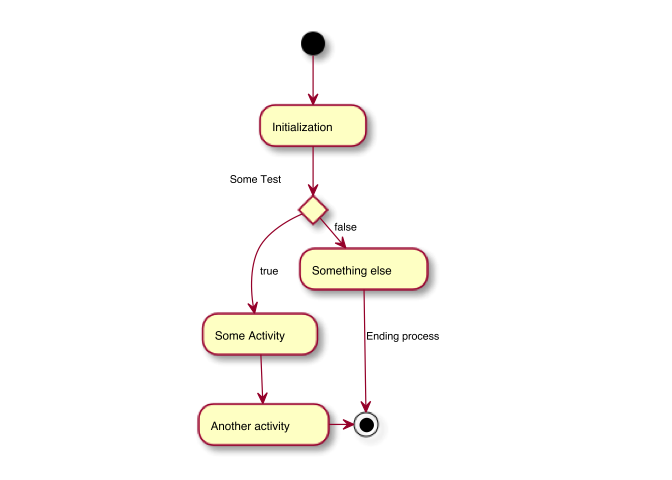
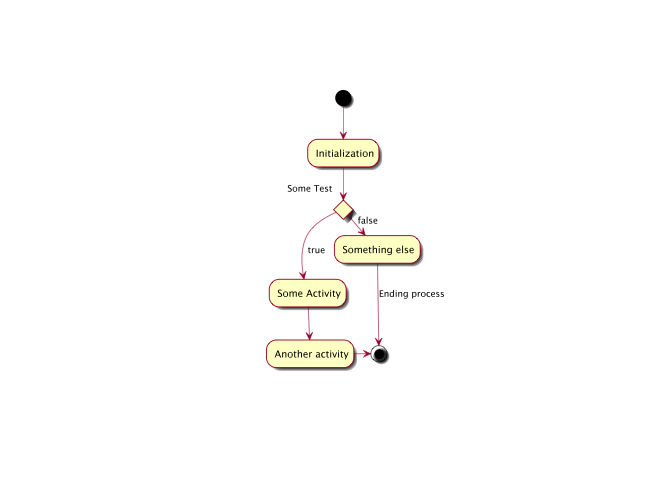
Version 0.2.1
* Revert back to using `.eps` as intermediate format
* Add `asp = 1` to plot function
* Additions to README.Rmd

Changed region(s): [[0.2812, 0.1875, 0.6562, 0.7812], [0.2812, 0.8125, 0.5625, 0.9688], [0.4375, 0.0625, 0.5, 0.1562]]

diff --git a/README.md b/README.md
@@ -8,14 +8,45 @@ This package provides the functionality to create UML graphs using the
 
 # Installation
 
-The package is not on CRAN, so you have to install it from github:
+## **<span style="color:red">ATTENTION</span>**
+
+This packege `plantuml` uses the package `grImport` for plotting to a
+graphics device. In the CRAN version (`0.9-0`)the function
+`PostScriptTrace()` does not clean up a temporary file which iscreated
+in theworking directory. This ahs been fixed in R-Forge. I recommend to
+install the package from the github mirror from R-Forge by using
 
 ``` r
-# From github
-# install.packages("devtools")
+devtools::install_github("rforge/grimport/pkg/grImport")
+```
+
+## Prerequisites
+
+The actual work is done by the program [plantuml](http://plantuml.com/).
+Please see [the plantuml installation
+page](http://plantuml.com/faq-install) for prerequisites of running
+plantuml. You don’t have tio install the plantuml.jar file, as the
+packagae maintains it’s own version (see below).
+
+As the package is only on github, you need `devtools` to install it
+easily as a prerequisite
+
+``` r
+install.packages("devtools")
+```
+
+## Installation of plantuml
+
+The package is not on CRAN, so you have to install it from github. Also,
+it doez not come with the plantuml binary, which needs to be installed
+as well:
+
+``` r
+# Install plantuml from github
 devtools::install_github("rkrug/plantuml")
 
 # download and install the PlantUML jar file from \link{http://plantuml.com/download}
+# whenever you call this command again, the plantuml binary will be updated to the newest version
 library(plantuml)
 updatePlantumlJar()
 ```
@@ -74,7 +105,9 @@ plot(
 
 ![](README_files/figure-gfm/exampleDeviceRaster-1.png)<!-- -->
 
-To safe the graph in a file, we simply specify the `file` argument in
+## Plotting to a file
+
+To save the graph in a file, we simply specify the `file` argument in
 the plot command:
 
 ``` r
@@ -83,8 +116,6 @@ plot(
   file = "./README_files/test.svg" 
 )
 ```
-
-## plotting to a file
 
 And here is the file
 
@@ -127,13 +158,12 @@ plot(
 )
 ```
 
-![](README_files/figure-gfm/exampleObject-1.png)<!-- --> \# Additional
-info
+![](README_files/figure-gfm/exampleObject-1.png)<!-- -->
 
-# \* **<span style="color:red">TODO</span>**
+This is work in progress and the layoput is likely to change.
 
-  - **<span style="color:red">TODO</span>** make selection dependant on
-    installed packages, as `vector = TRUE` requires postscript to be
-    installed\!
-  - **<span style="color:red">TODO</span>** update documentation and add
-    tests
+# **<span style="color:red">TODO</span>**
+
+  - make selection dependant on installed packages, as `vector = TRUE`
+    requires postscript to be installed\!
+  - update documentation and add tests

diff --git a/NEWS.md b/NEWS.md
@@ -1,3 +1,7 @@
+# plantuml 0.2.1
+* revert back to using `.eps` as intermediate format instead odf `.svg`
+* Added asp = 1 to `plot::plantuml()` to always plot the `.eps` in the correct ratio.
+
 # plantuml 0.2.0
 
 * Added a `NEWS.md` file to track changes to the package.
